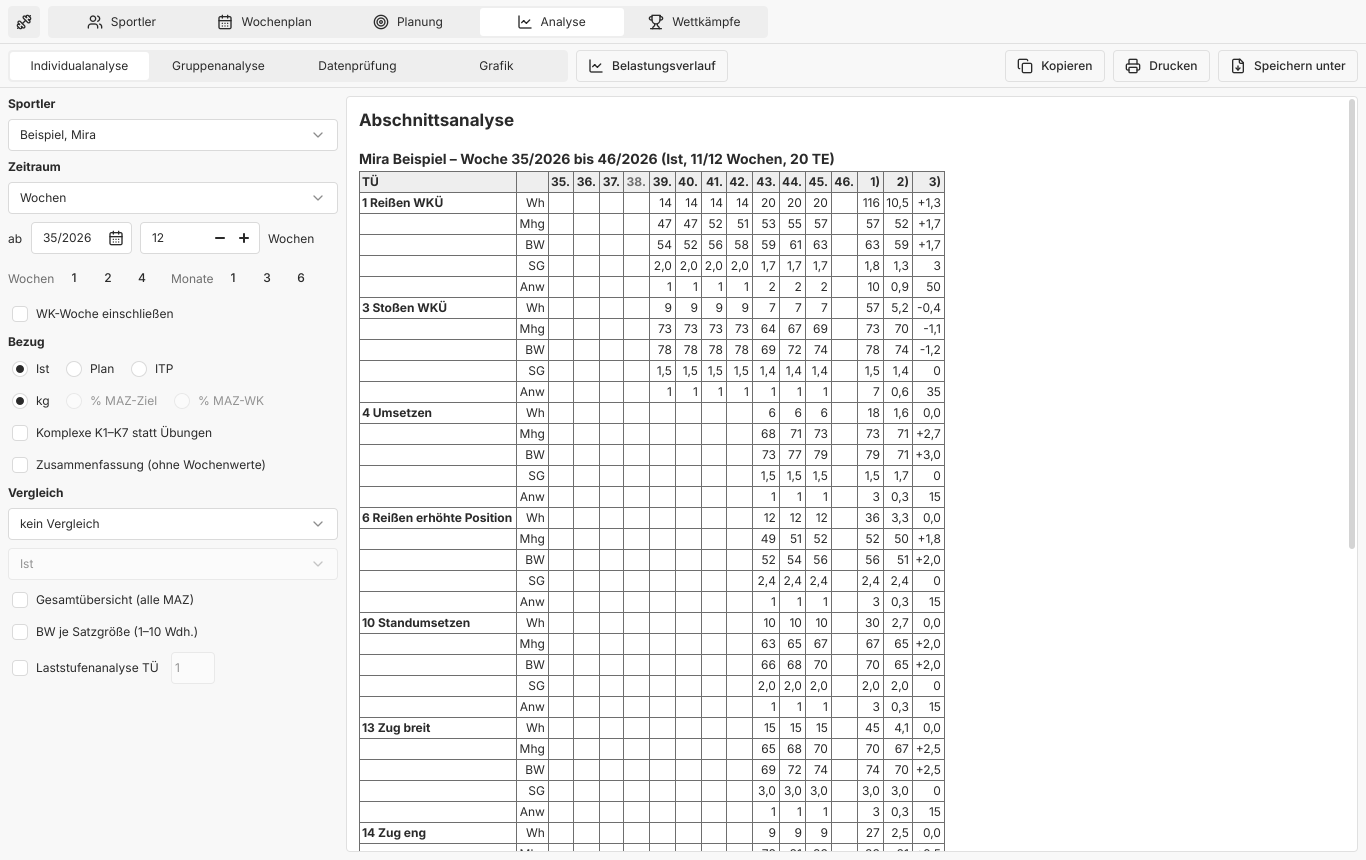
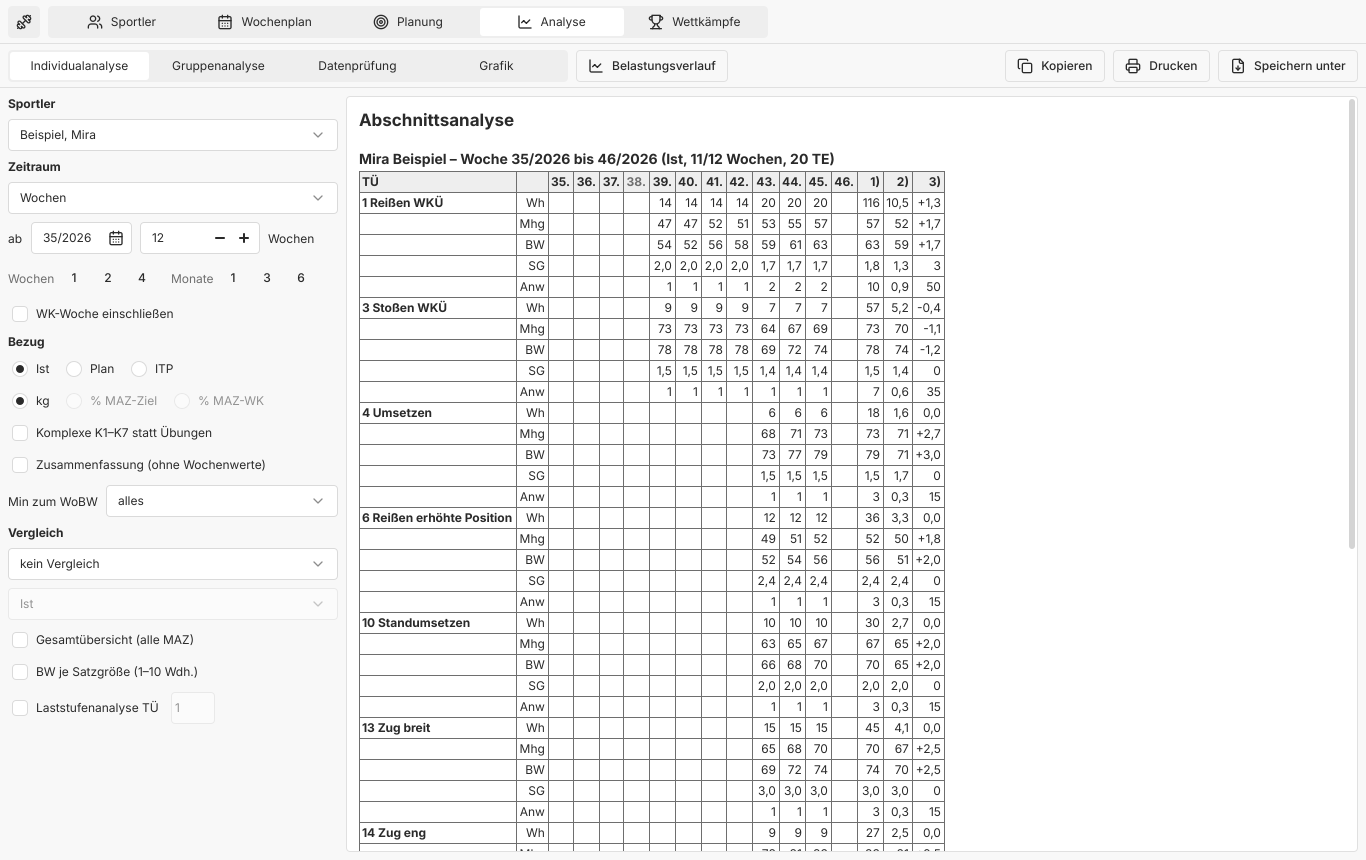
Count only steps near the week's best on demand
IDA's Abschnittsanalyse can leave the light work out: "Min zum WoBW"
counts only the reps at or above 60 to 100 % of the week's best weight
(WoBW). Ours now has that choice too. WH, MHG, SG, Anw and the table of
the best weight per set size then take only the steps from that share
of their exercise's best of the week on; the best itself stays.

Each exercise is measured against its own best, also when the rows
are the complexes K1 to K7, where a squat and a snatch cannot share
one. The ITP has no steps, so the choice does not apply to it.

diff --git a/tests/tst_weekbest.qml b/tests/tst_weekbest.qml
@@ -1,0 +1,75 @@
+import QtQuick
+import QtTest
+import Trainingsplaner
+
+// IDA's "Min zum WoBW" in the Abschnittsanalyse: only the steps at or
+// above a share of their exercise's best weight of the week count
+TestCase {
+    name: "WeekBest"
+
+    property string athlete
+    readonly property string monday: "2038-02-01"
+
+    function initTestCase() {
+        athlete = Store.saveAthlete({ lastName: "Bestwert", firstName: "Ben", sex: 0 })
+        // Snatch, best of the week 70; a second session with 50 only
+        Store.saveSession(athlete, monday, "I", { day: 1, number: 1, entries: [
+            { kind: 0, exercise: 1, steps: [{ kg: 50, reps: 3, sets: 2 }, { kg: 60, reps: 2, sets: 2 },
+                                            { kg: 70, reps: 1, sets: 3 }] },
+            { kind: 0, exercise: 19, steps: [{ kg: 100, reps: 3, sets: 2 }] } ] })
+        Store.saveSession(athlete, monday, "I", { day: 3, number: 1, entries: [
+            { kind: 0, exercise: 1, steps: [{ kg: 50, reps: 3, sets: 3 }] } ] })
+    }
+
+    function cleanupTestCase() {
+        Store.removeAthlete(athlete)
+    }
+
+    function rows(minWeekBest, groups) {
+        const r = Analysis.individual({ athleteId: athlete, mazId: "", from: "5/2038", weeks: 1, basis: "I",
+                                        reference: "kg", groups: !!groups, competitionWeeks: true, summary: true,
+                                        compareMazId: "", compareBasis: "I", allMaz: false, setSizes: true,
+                                        minWeekBest: minWeekBest, loadExercise: 0 })
+        return r
+    }
+    function line(report, name, label) {
+        const t = report.blocks.find(b => b.kind === "table").rows.map(r => r.map(c => c.t))
+        const i = t.findIndex(r => r[0] === name)
+        return t.slice(i, i + 6).find(r => r[1] === label).slice(2)
+    }
+    function setSizes(report) {
+        const i = report.blocks.findIndex(b => b.kind === "heading" && b.text.indexOf("BW je Satzgröße") === 0)
+        return report.blocks.slice(i).find(b => b.kind === "table").rows.map(r => r.map(c => c.t))
+    }
+
+    function test_all() {
+        const r = rows(0)
+        // 6 + 4 + 3 on Monday, 9 on Wednesday
+        compare(line(r, "1 Reißen WKÜ", "Wh")[0], "22")
+        compare(line(r, "1 Reißen WKÜ", "Anw")[0], "2")
+        verify(!r.blocks.some(b => b.kind === "note" && b.text.indexOf("Min zum WoBW") >= 0))
+    }
+
+    function test_80() {
+        const r = rows(80)
+        // 60 and 70 kg (56 kg and up): 4 + 3 reps, MHG (240 + 210) / 7
+        compare(line(r, "1 Reißen WKÜ", "Wh")[0], "7")
+        compare(line(r, "1 Reißen WKÜ", "Mhg")[0], "64")
+        compare(line(r, "1 Reißen WKÜ", "BW")[0], "70")
+        // Wednesday's 50 kg do not count: one session
+        compare(line(r, "1 Reißen WKÜ", "Anw")[0], "1")
+        // The squat against its own best: all of it
+        compare(line(r, "19 Kniebeuge vorn", "Wh")[0], "6")
+        verify(r.blocks.some(b => b.kind === "note" && b.text.indexOf("ab 80 % des Wochenbestwerts") >= 0))
+        // The set sizes: no triple at 50 any more
+        const t = setSizes(r)
+        compare(t[1].slice(0, 4), ["1 Reißen WKÜ", "70", "60", ""])
+    }
+
+    function test_100andGroups() {
+        compare(line(rows(100), "1 Reißen WKÜ", "Wh")[0], "3")
+        // K1 measures each exercise against its own best: the 70s only
+        compare(line(rows(100, true), "K1", "Wh")[0], "3")
+        compare(line(rows(100, true), "K5", "Wh")[0], "6")
+    }
+}

diff --git a/qml/AnalysisPage.qml b/qml/AnalysisPage.qml
@@ -47,6 +47,7 @@ Page {
             compareBasis: ["I", "P", "T", "R"][iCompareBasis.currentIndex],
             allMaz: iAllMaz.checked,
             setSizes: iSetSizes.checked,
+            minWeekBest: [0, 60, 70, 80, 90, 100][iWeekBest.currentIndex],
             loadExercise: iLoad.checked ? (parseInt(iLoadEx.text) || 0) : 0
         }
     }
@@ -175,6 +176,21 @@ Page {
                     }
                     CheckBox { id: iGroups; text: "Komplexe K1–K7 statt Übungen" }
                     CheckBox { id: iSummary; text: "Zusammenfassung (ohne Wochenwerte)" }
+                    // IDA's "Min zum WoBW": only the steps at or above a
+                    // share of the exercise's best weight of the week
+                    RowLayout {
+                        spacing: 8
+                        enabled: !iItp.checked
+                        Label { text: "Min zum WoBW" }
+                        ComboBox {
+                            id: iWeekBest
+                            objectName: "weekBestBox"
+                            Layout.fillWidth: true
+                            model: ["alles", "60 %", "70 %", "80 %", "90 %", "100 %"]
+                            ToolTip.visible: hovered
+                            ToolTip.text: "Nur Laststufen ab diesem Anteil des Wochenbestwerts der Übung zählen"
+                        }
+                    }
                     Label { text: "Vergleich"; font.bold: true }
                     ComboBox {
                         id: iCompare

diff --git a/qml/HelpDialog.qml b/qml/HelpDialog.qml
@@ -165,7 +165,8 @@ AppDialog {
                           + "Maus über der Zahl nennt den Grund. „Skalieren“ ändert gewählte Wochen und Werte um einen Faktor, "
                           + "z. B. 90 % nach einer Krankheit. Den Richtwert des TMK für die WH je Woche nennen die Spalten "
                           + "K1–K6 und K1-7 und zeigt der Belastungsverlauf als violette Linie.<br><br>"
-                          + "<b>Analyse:</b> Abschnittsanalyse über beliebige Wochen oder eine MAZ (mit „Anw“: in wie vielen "
+                          + "<b>Analyse:</b> Abschnittsanalyse über beliebige Wochen oder eine MAZ (auf Wunsch nur ab einem Anteil "
+                          + "des Wochenbestwerts, „Min zum WoBW“; mit „Anw“: in wie vielen "
                           + "Einheiten eine Übung vorkommt), auf Wunsch mit dem "
                           + "höchsten Gewicht je Satzgröße (1–10 Wdh.), Grafik je Übung (auch Ist und Plan zusammen, oder "
                           + "gegen den Durchschnitt eines Kaders, Vereins oder MAZ), "

diff --git a/src/analysis.cpp b/src/analysis.cpp
@@ -38,6 +38,35 @@ QString nameFor(int key)
     return QStringLiteral("%1 %2").arg(key).arg(Catalog::name(key));
 }
 
+// The lines with only the steps at or above `percent` of their
+// exercise's best weight of the week (IDA's "Min zum WoBW"); lines left
+// without steps go
+QList<Database::WeightLine> fromWeekBest(QList<Database::WeightLine> lines, int percent)
+{
+    if (percent <= 0)
+        return lines;
+    QMap<QPair<QDate, int>, int> best;
+    for (const Database::WeightLine &l : std::as_const(lines)) {
+        int &b = best[{l.monday, l.exercise}];
+        for (const Step &st : l.steps)
+            b = qMax(b, st.kg);
+    }
+    QList<Database::WeightLine> kept;
+    for (Database::WeightLine l : std::as_const(lines)) {
+        const int b = best.value({l.monday, l.exercise});
+        QList<Step> steps;
+        for (const Step &st : std::as_const(l.steps)) {
+            if (st.kg * 100 >= percent * b)
+                steps.append(st);
+        }
+        if (!steps.isEmpty()) {
+            l.steps = steps;
+            kept.append(l);
+        }
+    }
+    return kept;
+}
+
 double maxOf(const QList<double> &v)
 {
     double m = none;
@@ -98,7 +127,7 @@ Section section(const Params &p)
         }
     } else {
         const Variant v = p.basis == Basis::Plan ? Variant::Plan : Variant::Actual;
-        for (const Database::WeightLine &l : Database::weightLines(p.athleteId, v, p.from, to)) {
+        for (const Database::WeightLine &l : fromWeekBest(Database::weightLines(p.athleteId, v, p.from, to), p.minWeekBest)) {
             const int key = keyFor(l.exercise, p.groups);
             if (key == 0)
                 continue;
@@ -257,12 +286,13 @@ LoadTable loadTable(const QString &athleteId, Variant variant, int exercise, con
 }
 
 QList<SetSizeBests> bestBySetSize(const QString &athleteId, Variant variant, const QDate &from, int weeks,
-                                  const QList<QDate> &skip)
+                                  const QList<QDate> &skip, int minWeekBest)
 {
     QMap<int, QList<int>> best;
     if (weeks <= 0)
         return {};
-    for (const Database::WeightLine &l : Database::weightLines(athleteId, variant, from, from.addDays(7 * (weeks - 1)))) {
+    for (const Database::WeightLine &l : fromWeekBest(
+             Database::weightLines(athleteId, variant, from, from.addDays(7 * (weeks - 1))), minWeekBest)) {
         if (skip.contains(l.monday) || !Catalog::isWeightExercise(l.exercise))
             continue;
         for (const Step &st : l.steps) {

diff --git a/src/analysisapi.cpp b/src/analysisapi.cpp
@@ -249,6 +249,7 @@ QVariantMap AnalysisApi::individual(const QVariantMap &p) const
     params.includeCompetitionWeeks = p.value(QStringLiteral("competitionWeeks")).toBool();
     params.reference = referenceFrom(p.value(QStringLiteral("reference")).toString());
     params.mazId = p.value(QStringLiteral("mazId")).toString();
+    params.minWeekBest = qBound(0, p.value(QStringLiteral("minWeekBest")).toInt(), 100);
     const bool summary = p.value(QStringLiteral("summary")).toBool();
     const bool itp = params.basis == Basis::Itp;
 
@@ -256,6 +257,9 @@ QVariantMap AnalysisApi::individual(const QVariantMap &p) const
                                           : maz.name;
     const Section s = section(params);
     doc.heading(sectionTitle(a.fullName(), what, weeks, s, basisName(basis)));
+    if (params.minWeekBest > 0 && !itp)
+        doc.note(QStringLiteral("Nur Laststufen ab %1 % des Wochenbestwerts (WoBW) der Übung (Min zum WoBW).")
+                     .arg(params.minWeekBest));
     if (params.reference != Reference::Absolute)
         doc.note(QStringLiteral("Mhg und BW in % der %1 im MAZ.")
                      .arg(params.reference == Reference::MazTarget ? QStringLiteral("Zielleistung")
@@ -332,7 +336,8 @@ QVariantMap AnalysisApi::individual(const QVariantMap &p) const
                 skip.append(s.weeks[i]);
         }
         const QList<SetSizeBests> bests =
-            bestBySetSize(athleteId, params.basis == Basis::Plan ? Variant::Plan : Variant::Actual, from, weeks, skip);
+            bestBySetSize(athleteId, params.basis == Basis::Plan ? Variant::Plan : Variant::Actual, from, weeks, skip,
+                          params.minWeekBest);
         doc.heading(QStringLiteral("BW je Satzgröße (kg, %1)").arg(basisName(basis)));
         if (bests.isEmpty()) {
             doc.note(QStringLiteral("Keine Sätze im Zeitraum."));

diff --git a/src/analysis.h b/src/analysis.h
@@ -29,6 +29,9 @@ struct Params
     bool includeCompetitionWeeks = false;
     Reference reference = Reference::Absolute;
     QString mazId;                // for the reference values
+    // IDA's "Min zum WoBW": only steps at or above this percent of their
+    // exercise's best weight of the week count; 0 all
+    int minWeekBest = 0;
 };
 
 // One exercise or group over the weeks of a period
@@ -87,7 +90,7 @@ struct SetSizeBests
     QList<int> kg; // [reps - 1], 0 = no set of that size
 };
 QList<SetSizeBests> bestBySetSize(const QString &athleteId, Variant variant, const QDate &from, int weeks,
-                                  const QList<QDate> &skip = {});
+                                  const QList<QDate> &skip = {}, int minWeekBest = 0);
 
 // Sessions with entries per athlete and week: [athlete][week]
 QList<int> sessionCounts(const QString &athleteId, const QDate &from, int weeks, Variant variant);

diff --git a/docs/RESEARCH-IDA-RTK.md b/docs/RESEARCH-IDA-RTK.md
@@ -141,7 +141,7 @@ M days, L a week or more.
 | # | Idea | Source | Size |
 |---|---|---|---|
 | 18 | **Best weight per set size** (BW at 1…10 reps) per exercise over a period (done, November 2026: "BW je Satzgröße" in the Abschnittsanalyse, Ist or Plan, competition weeks as the main table, steps with only failed attempts left out) | IDA p.18 | S–M |
-| 19 | "Min zum WoBW": count only reps at or above X % of the week's best | IDA p.18 | M |
+| 19 | "Min zum WoBW": count only reps at or above X % of the week's best (done, November 2026: in the Abschnittsanalyse, 60 to 100 %, each exercise against its own best of the week, also in the K view and for BW je Satzgröße; not for the ITP) | IDA p.18 | M |
 | 20 | "Anw": in how many sessions a week an exercise appears (done, November 2026: an Anw line per exercise or complex in the Abschnittsanalyse, per week, in all, per week and as a share of all sessions; Ist and Plan) | IDA p.18 | S |
 | 21 | Quick ranges (1/2/4 weeks, 1/3/6 months); Plan and Ist in one chart (done, November 2026: the buttons in Individualanalyse, Datenprüfung and Grafik, up to this week, the range shown marked; "Ist + Plan" in the Grafik, the plan dashed) | IDA p.19 | S |
 | 22 | Compare one athlete with the **average of a group** (done, November 2026: "Ø Gruppe" in the Grafik, a Kader, a Verein or the athletes of a MAZ, without the athlete compared, per week of those with values; in percent only athletes with a target in the MAZ) | IDA p.19 | M |

diff --git a/docs/HANDBUCH.md b/docs/HANDBUCH.md
@@ -558,6 +558,15 @@ einem anderen Zeitraum.
 > Woche 38 ist grau: Es ist die Woche eines Wettkampfs (15.09.), die nur
 > mit *WK-Woche einschließen* mitzählt. Deshalb steht oben „11/12 Wochen“.
 
+**Min zum WoBW** (wie in IDA) zählt nur die Laststufen ab 60, 70, 80, 90
+oder 100 % des Wochenbestwerts (WoBW) der jeweiligen Übung: so zeigen WH,
+Mhg, SG und Anw nur die schweren Wiederholungen. Der Bestwert jeder Woche
+bleibt, bei den Komplexen misst jede Übung an ihrem eigenen. Im ITP gibt
+es keine Laststufen, dort gilt die Auswahl nicht.
+
+> **Beispiel:** Mira, Reißen WKÜ, 12 Wochen ab 35/2026: mit allem 116 WH
+> bei einem Mhg des Abschnitts von 52 kg, mit „80 %“ 110 WH bei 53 kg.
+
 **BW je Satzgröße (1–10 Wdh.)** hängt eine Tabelle an: je Übung das
 höchste Gewicht, das im Zeitraum in Sätzen zu 1, 2 … 10 Wiederholungen
 bewältigt wurde, aus dem Ist oder dem Plan (das ITP hat keine Sätze).
